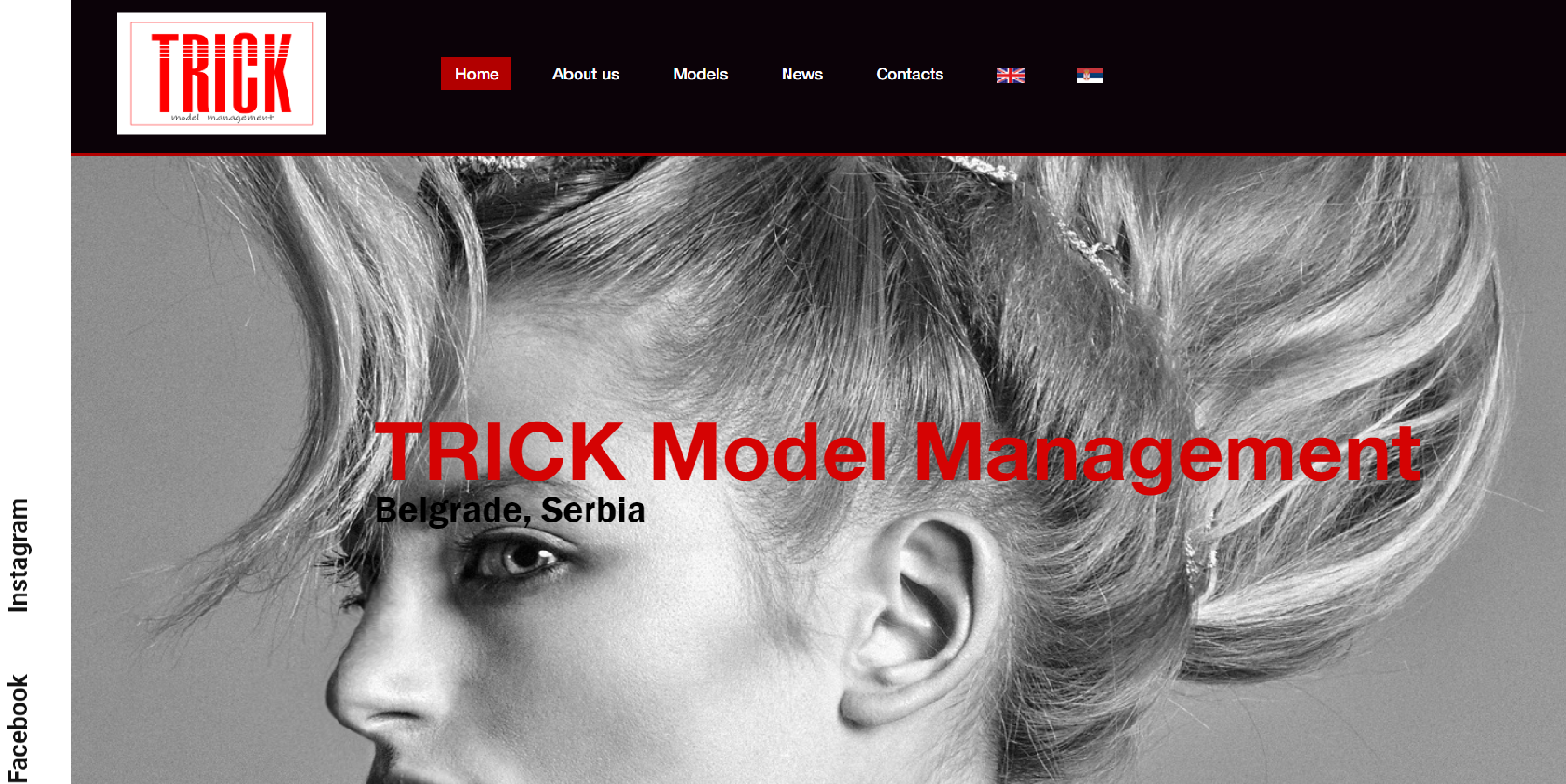
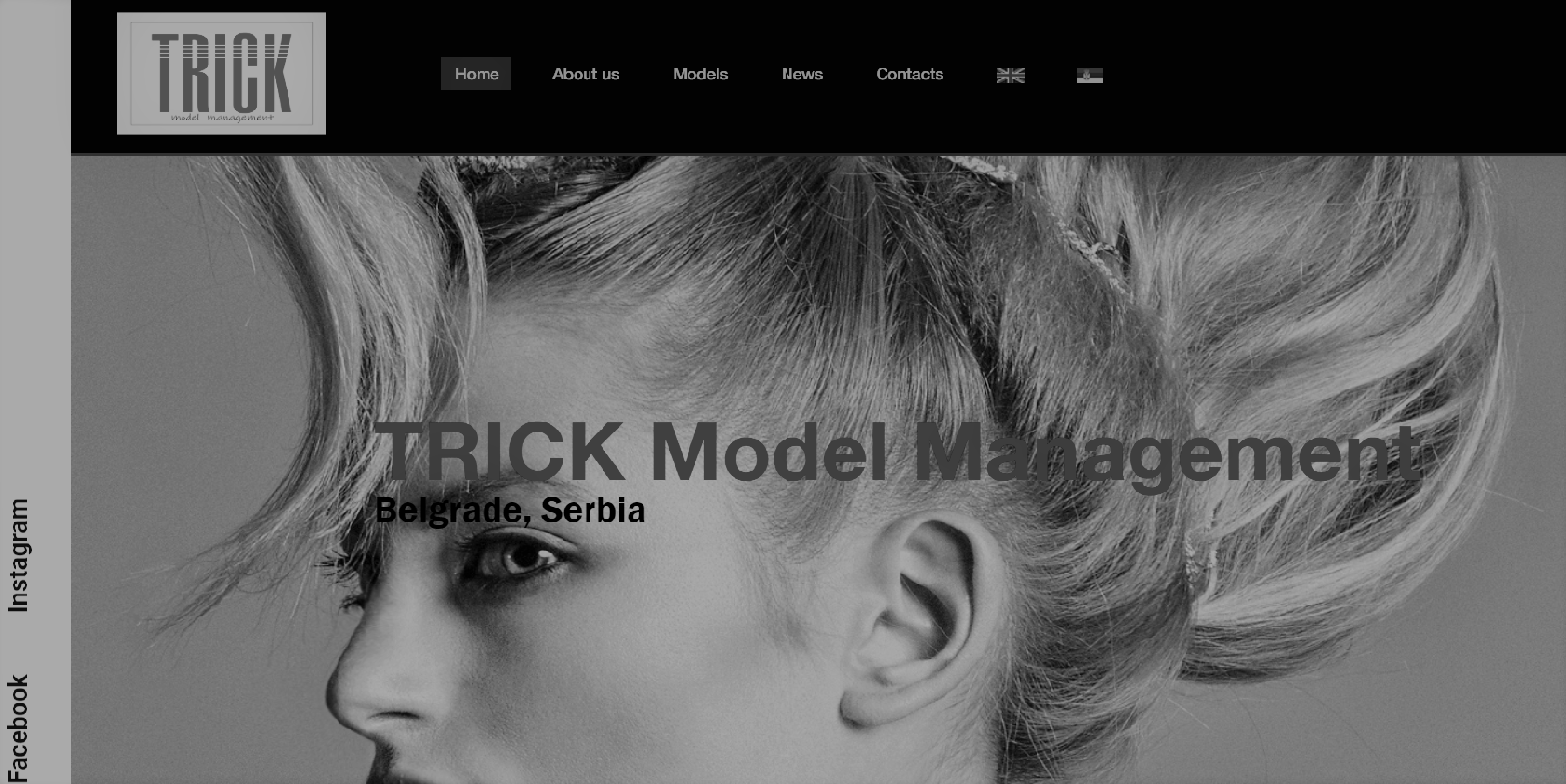
change color on images

diff --git a/Nedelja1/style.css b/Nedelja1/style.css
@@ -112,8 +112,7 @@ body{
     text-decoration: none;
     
 }
-.aboutleft a:link, a:visited{
-    color: black;
+
 }
 .aboutleft a:hover{
     color: white;
